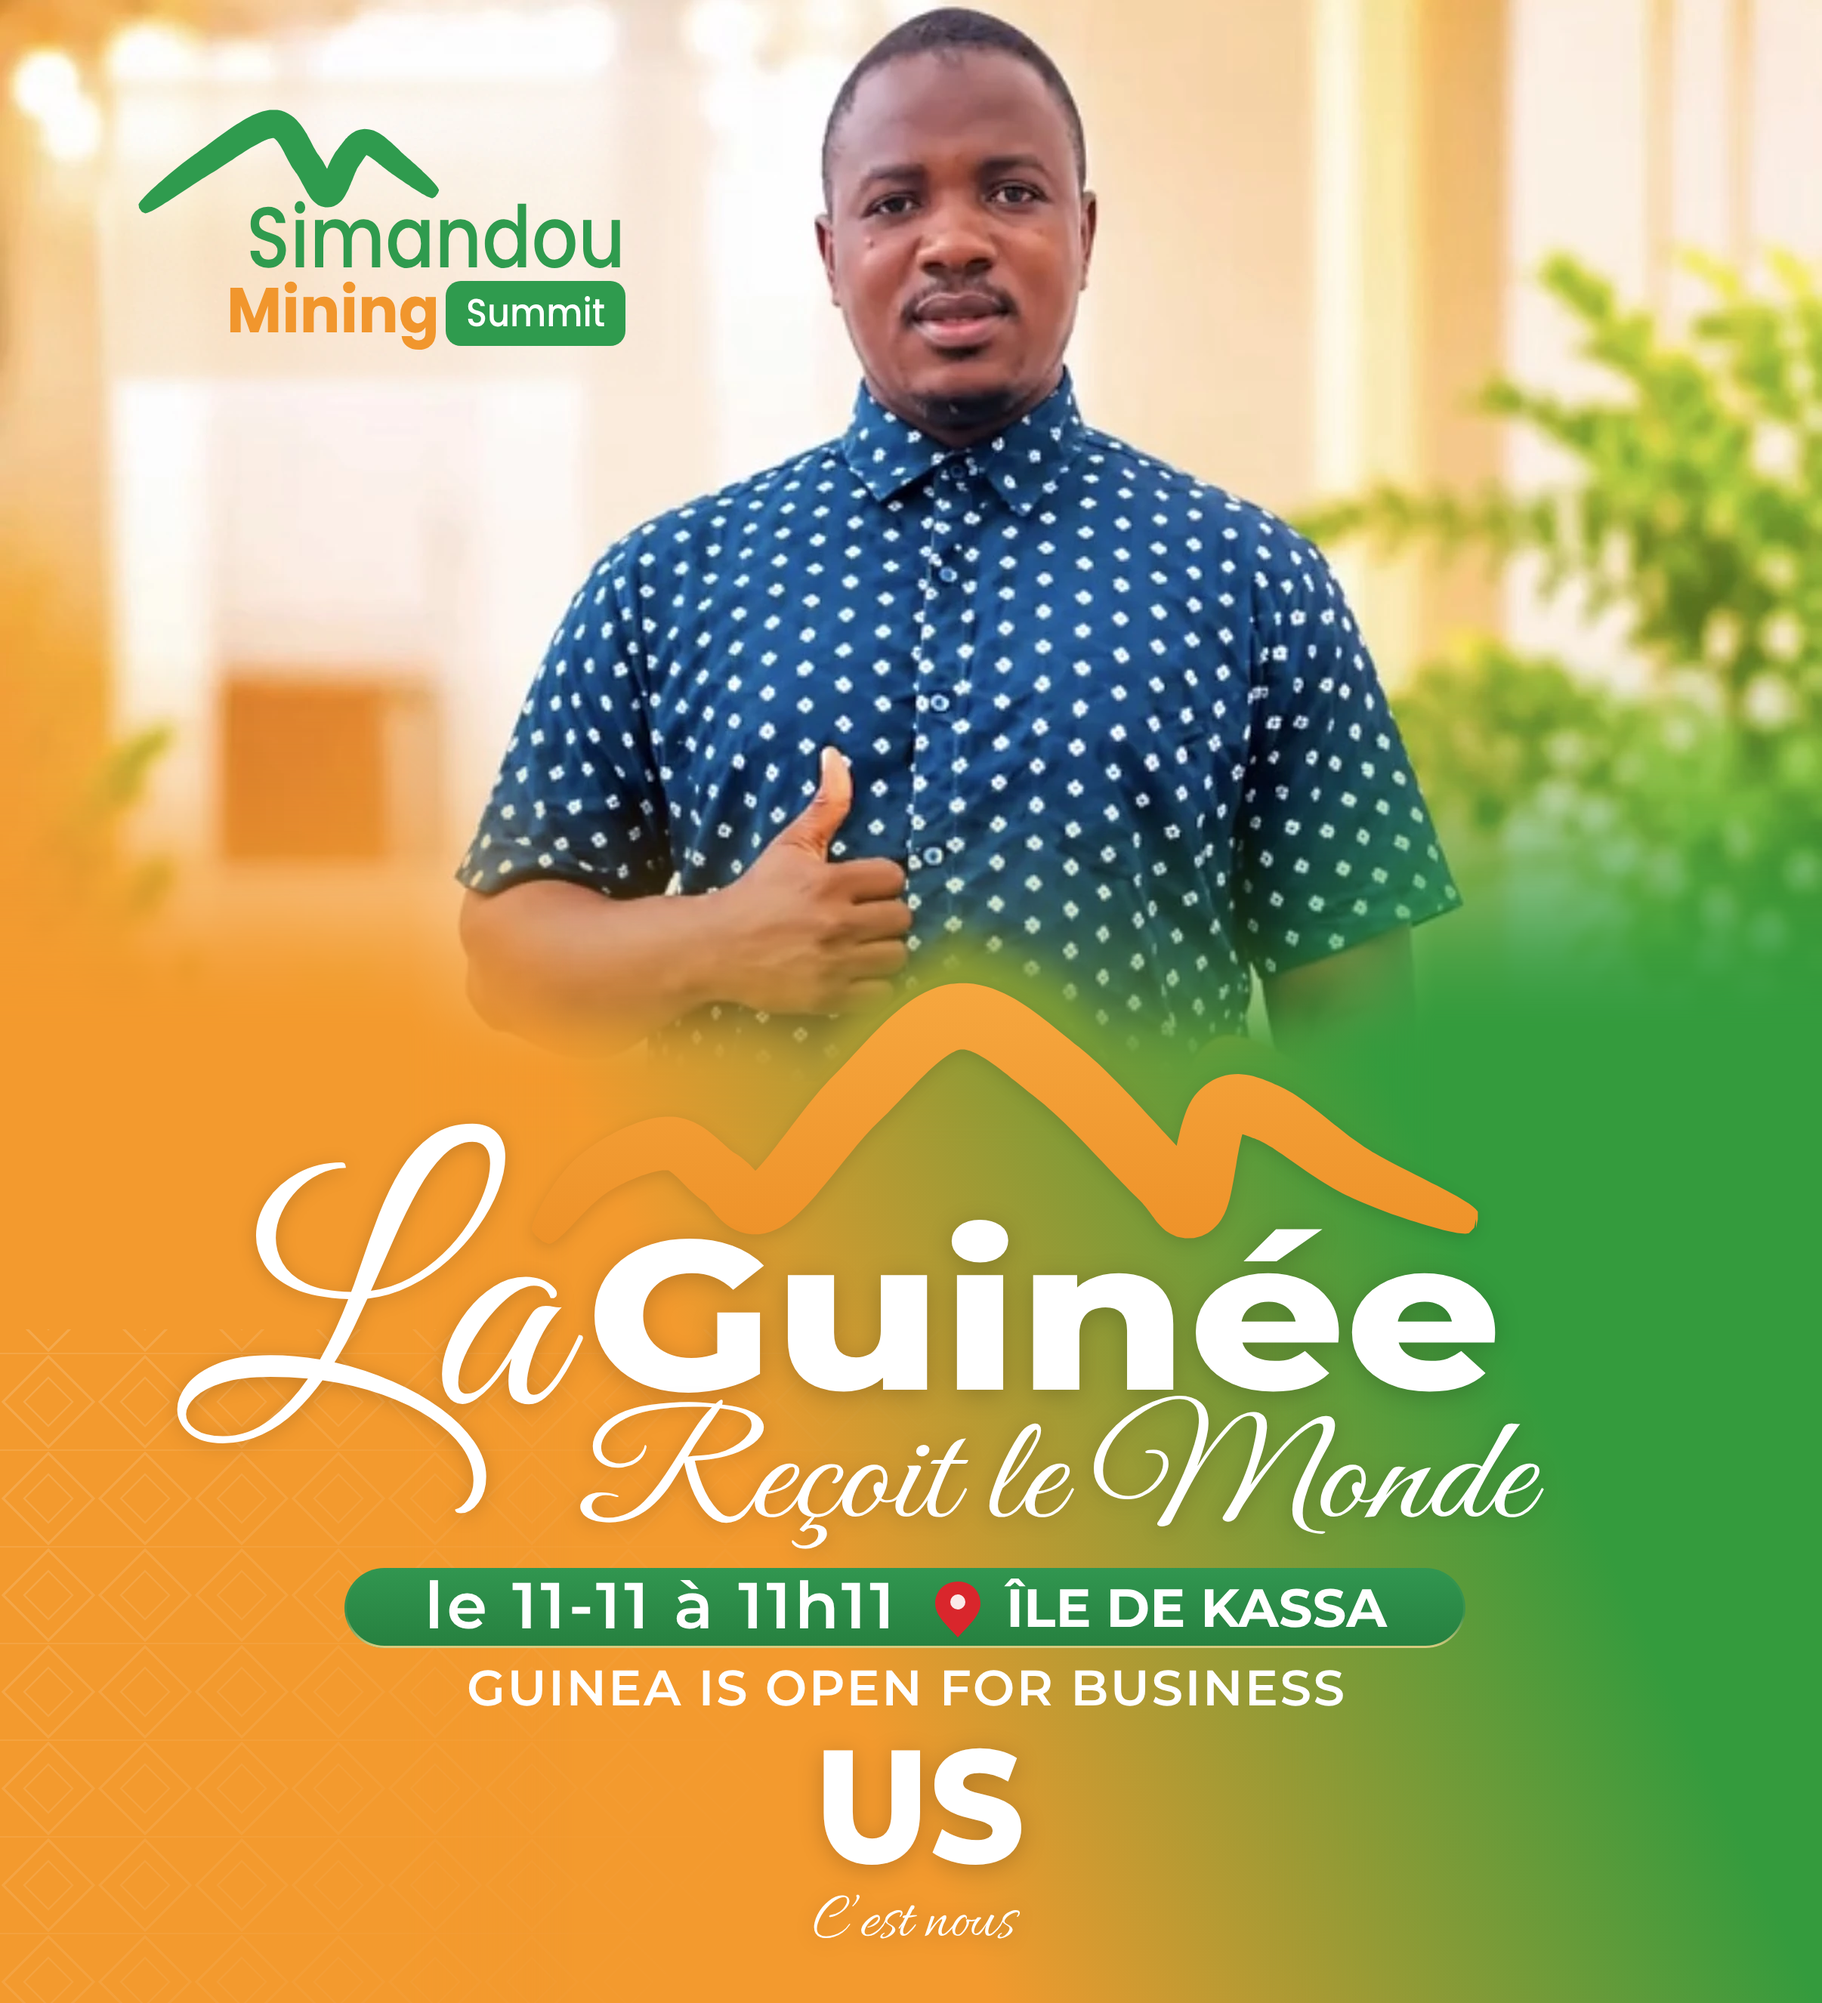
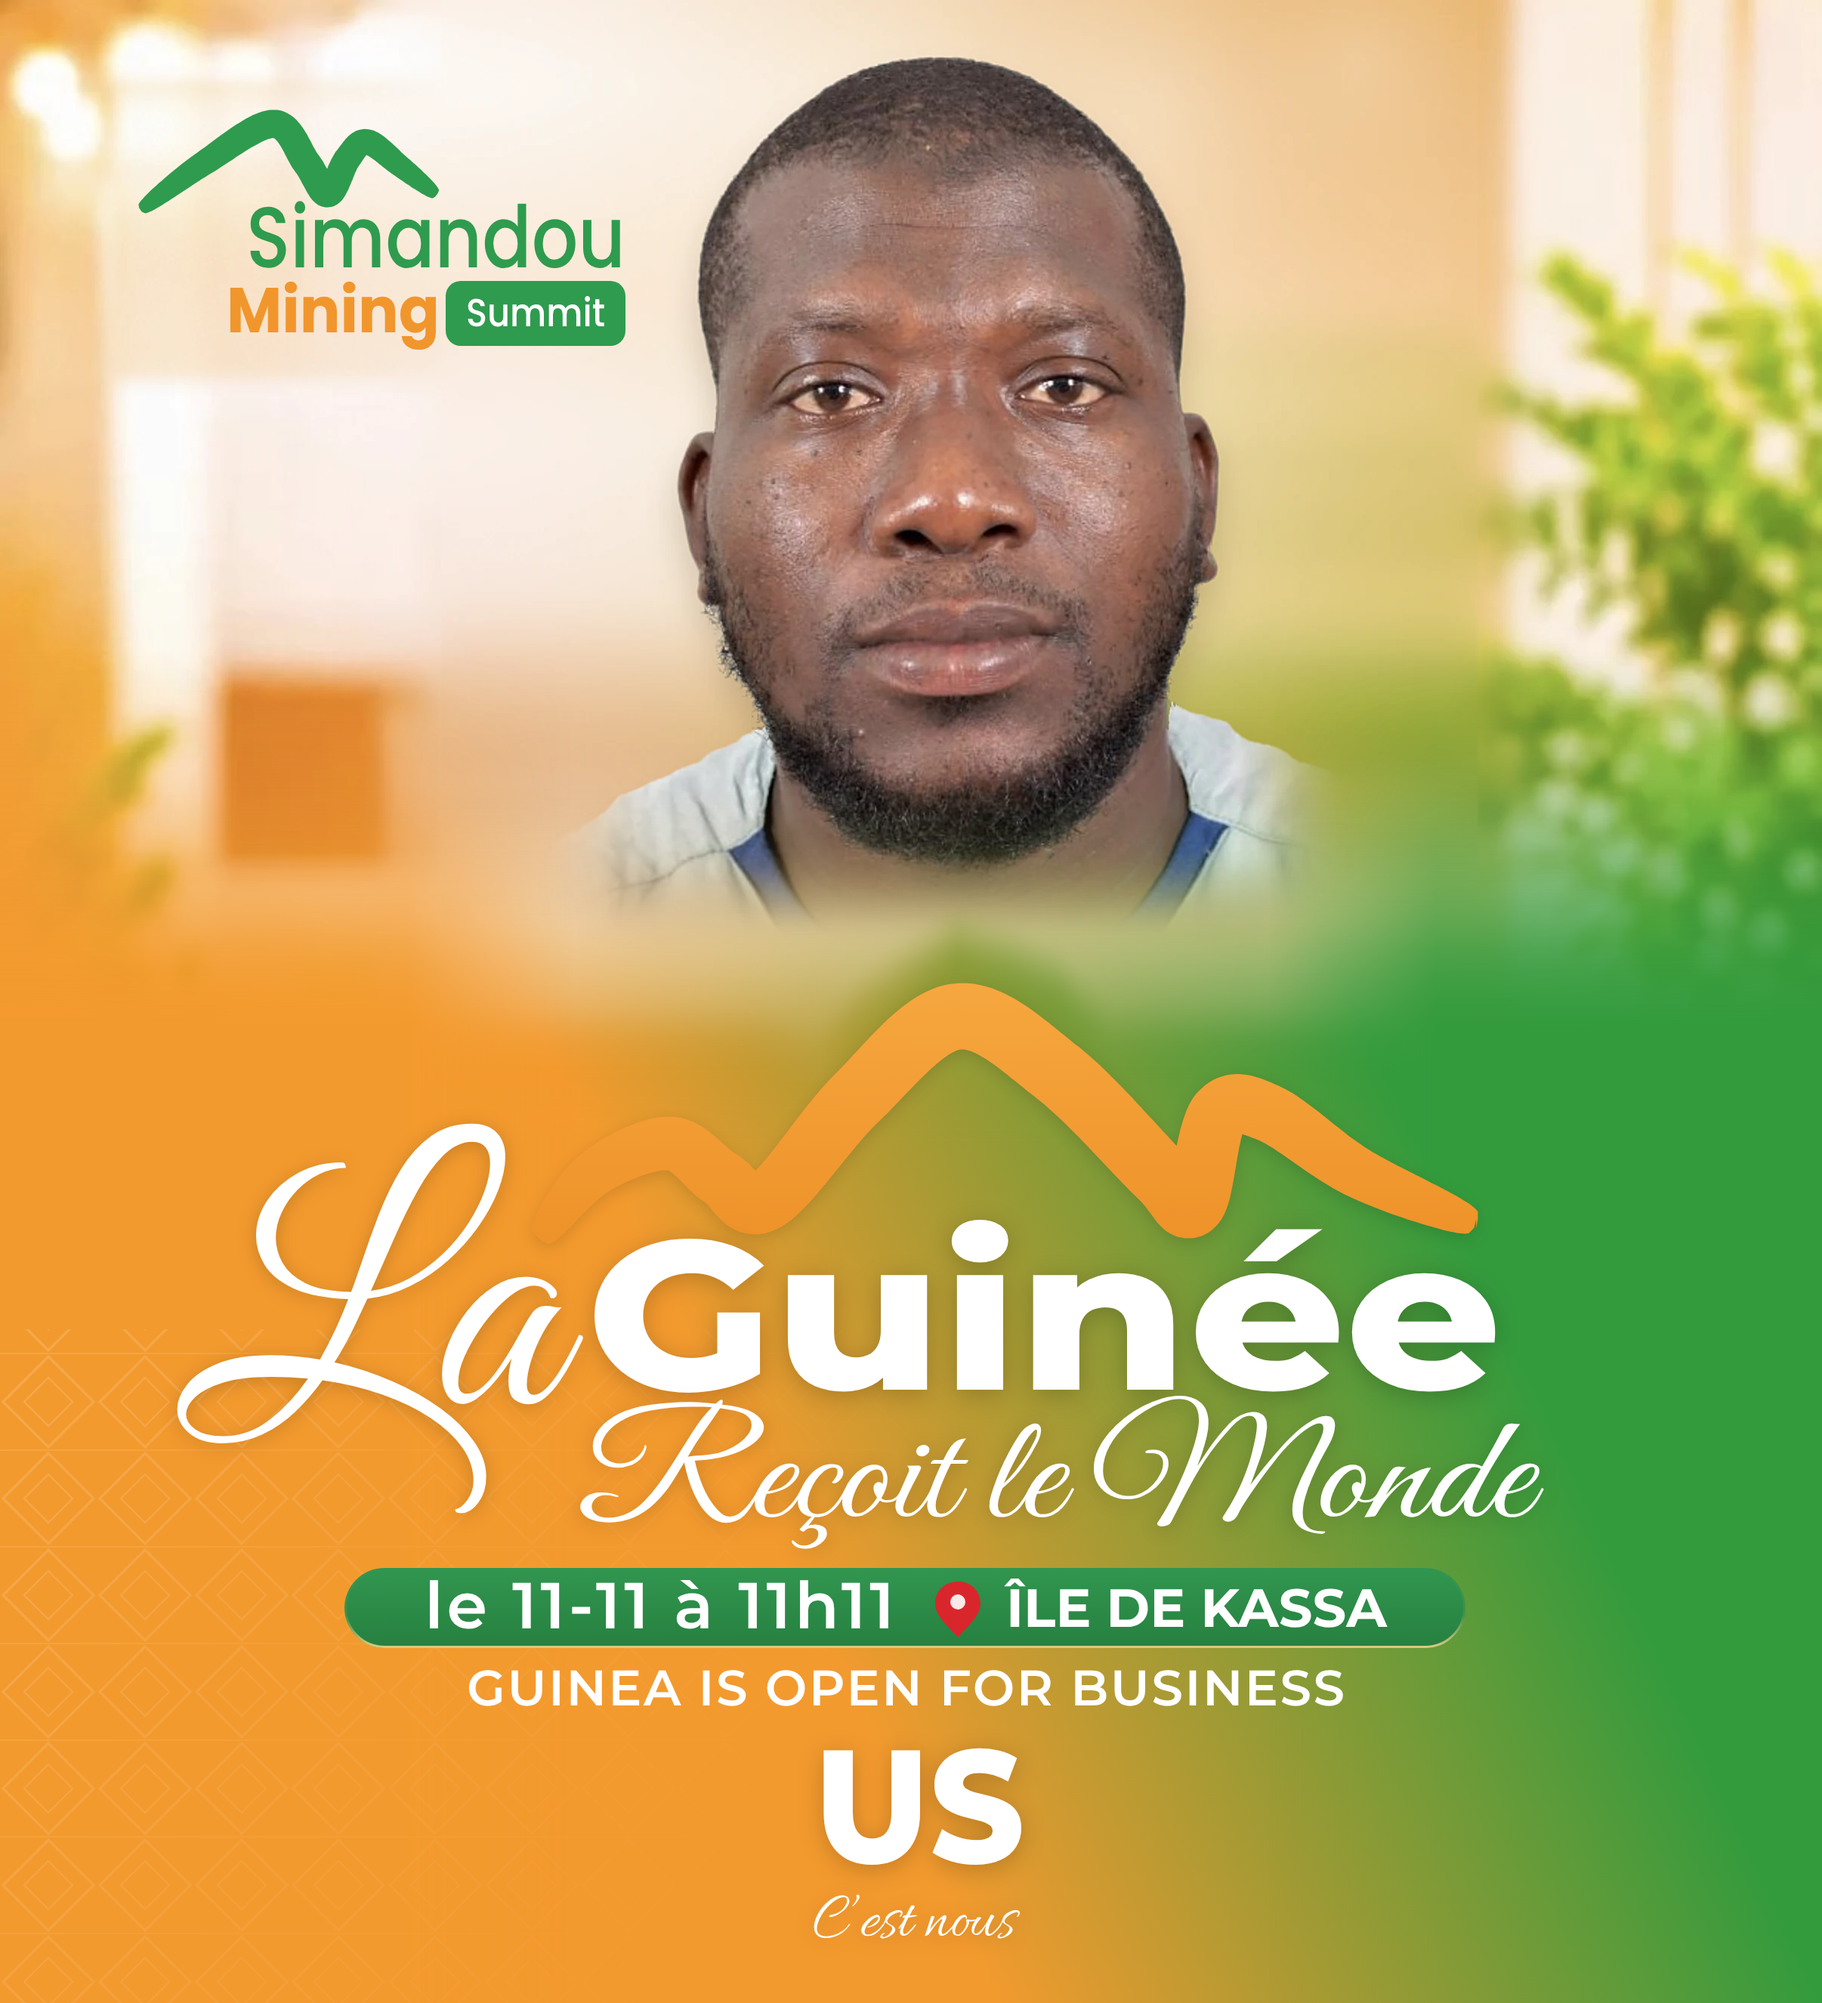
Affiche : remplace la photo par le portrait fourni (buste détouré, fond reconstruit)
Claude-Session: https://claude.ai/code/session_01Frq6RKT7uUKofAt4vc3rq6

Changed region(s): [[0.2177, 0.0, 0.8396, 0.5256], [0.8085, 0.1855, 0.8396, 0.2164]]

diff --git a/affiche-simandou/README.md b/affiche-simandou/README.md
@@ -9,6 +9,8 @@
 ## Modifier l'affiche
 
 - **Textes** : cherchez-les dans `index.html` (`le 11-11 à 11h11`, `ÎLE DE KASSA`, `GUINEA IS OPEN FOR BUSINESS`, `US`…).
-- **Photo** : remplacez `photo.webp` (gardez 1206 px de large pour 716 px de haut ; le bas peut être
-  rendu transparent pour se fondre dans le dégradé, ou laissez le voile `.tint` faire le travail).
+- **Photo** : `photo.webp` est un montage (fond flou + portrait détouré en buste, tête centrée vers
+  x = 628, sommet du crâne vers y = 38). Pour changer de photo, remplacez ce fichier
+  (1206 px de large pour 716 px de haut, ×2 recommandé ; le bas peut être rendu transparent pour se
+  fondre dans le dégradé, sinon le voile `.tint` fait le travail).
 - **Couleurs** : variables `--orange` et `--green` en haut de `index.html`.
